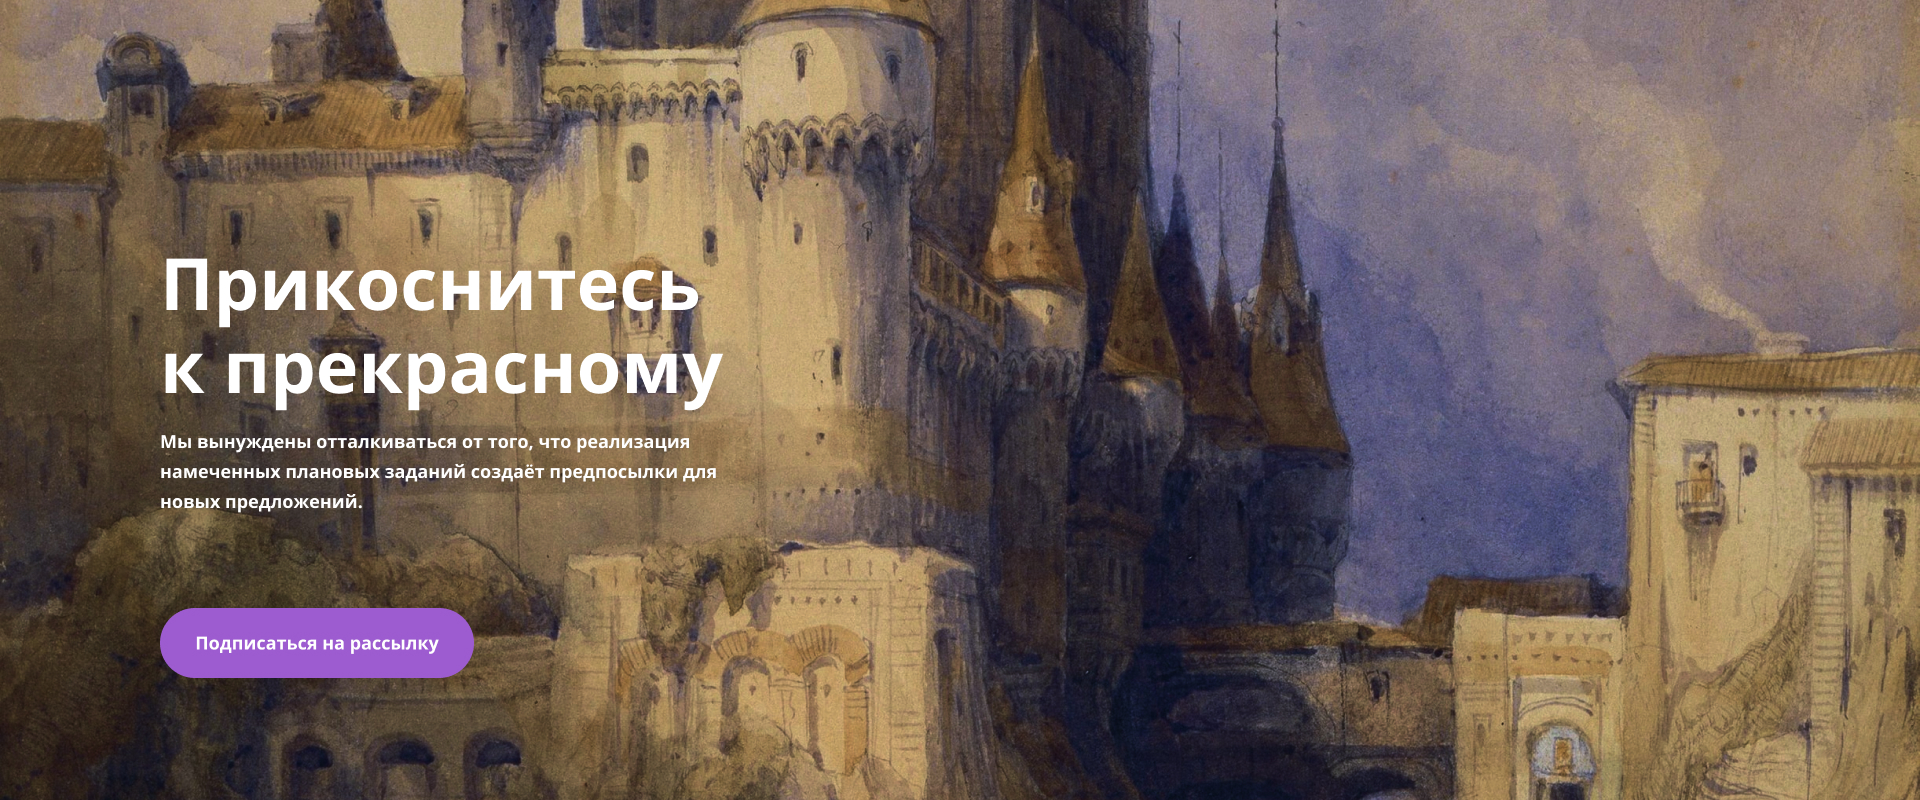
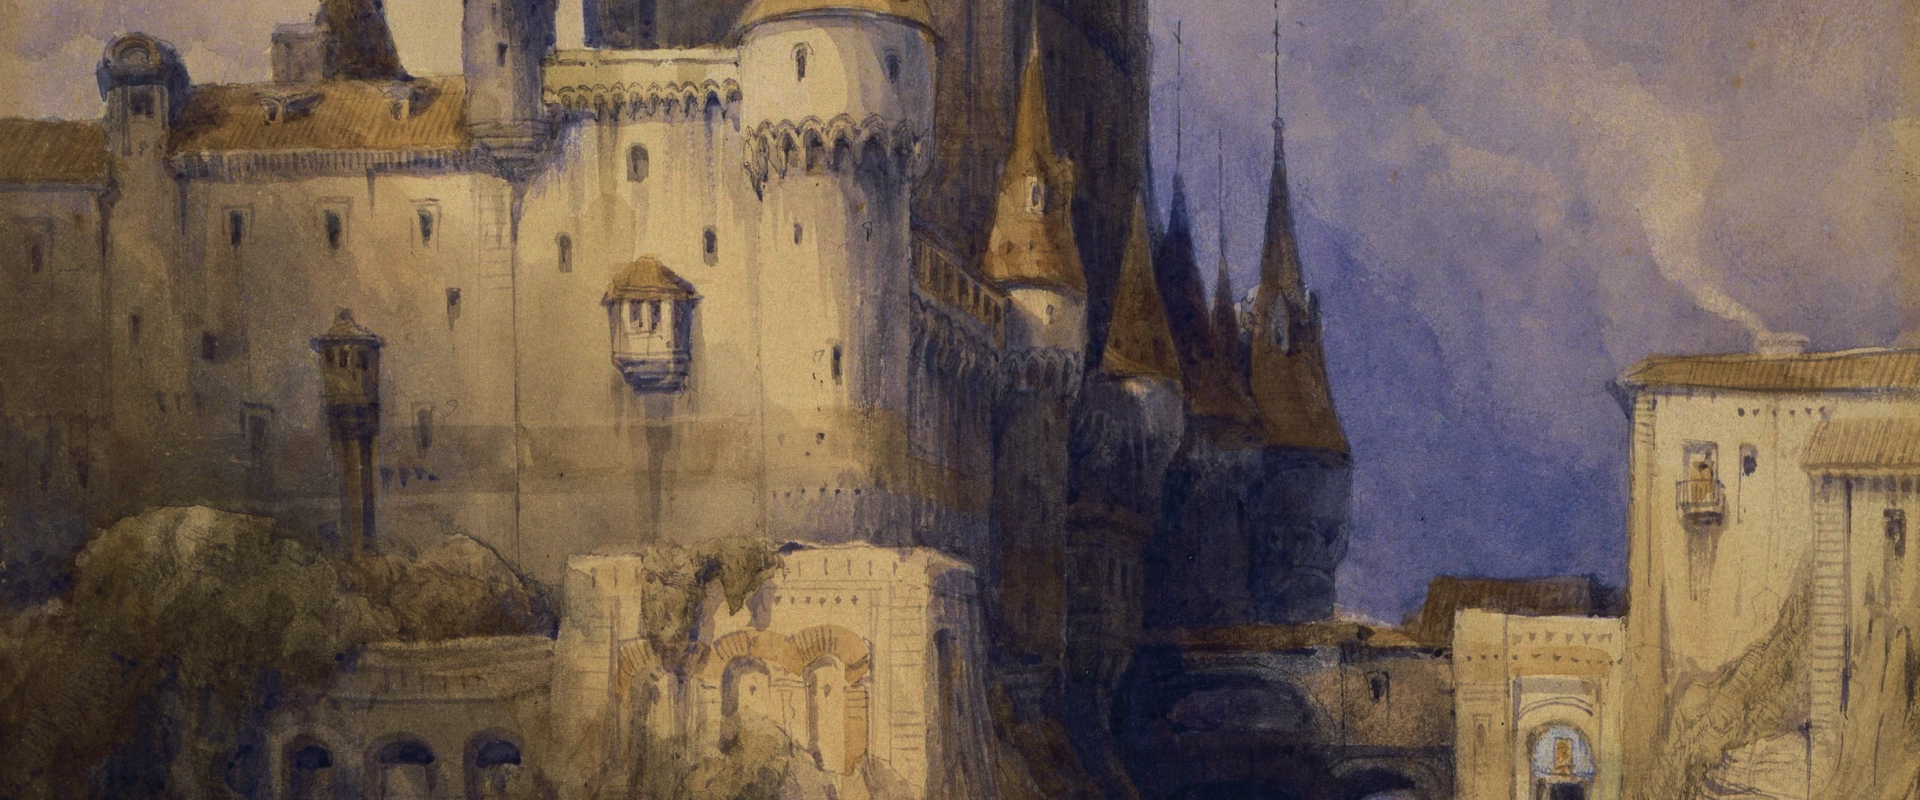
hero + about us

Changed region(s): [[0.0625, 0.4375, 0.375, 0.6562], [0.0625, 0.3125, 0.375, 0.4062], [0.0625, 0.75, 0.25, 0.875]]

diff --git a/css/style.css b/css/style.css
@@ -33,6 +33,7 @@
 
 :root {
   --black: #000;
+  --dark: #333;
   --white: #fff;
   --dark-purple: #7943A4;
   --purple: #9D5CD0;
@@ -44,7 +45,7 @@
 }
 
 *:focus {
-  outline: none;
+  outline-width: 0px;
 }
 
 a {
@@ -65,16 +66,52 @@ button {
 }
 
 body {
-  font-family: 'Open Sans';
+  font-family: 'Open Sans', sans-serif;
 }
 
 input {
   padding: 0;
 }
 
+h1 {
+  margin: 0;
+}
+
+h2 {
+  margin: 0;
+}
+
+p {
+  margin: 0;
+}
+
 .container {
   padding-right: 8.33%;
   padding-left: 8.33%;
+}
+
+.btn {
+  border-radius: 100px;
+
+  font-size: 18px;
+  font-weight: 700;
+  line-height: 25px;
+  color: var(--white);
+
+  background-color: var(--purple);
+}
+
+.section__title {
+  font-size: 48px;
+  font-weight: 400;
+  line-height: 65px;
+  color: var(--dark);
+}
+
+.section__description {
+  font-size: 16px;
+  line-height: 32px;
+  color: var(--dark);
 }
 
 /* Header */
@@ -223,6 +260,8 @@ input {
   font-size: 18px;
   line-height: 25px;
   color: var(--white);
+
+  transition: color .15s ease-in;
 }
 
 .header-bottom__btn-active,
@@ -236,6 +275,10 @@ input {
 .header-bottom__btn-active svg,
 .header-bottom__btn:active svg {
   transform: scale(-100%);
+}
+
+.header-bottom__btn svg path {
+  transition: stroke .15s ease-in;
 }
 
 .header-bottom__btn-active svg path,
@@ -294,6 +337,8 @@ input {
   align-items: center;
   height: 40px;
   padding-left: 14px;
+
+  transition: outline .15s ease-in;
 }
 
 .header__dropdown-item:hover {
@@ -326,6 +371,7 @@ input {
   bottom: 0;
   left: 0;
   right: 0;
+  transition: outline .15s ease-in, background-color .15s ease-in;
 }
 
 .header__dropdown-item:not(:last-child) {
@@ -411,6 +457,8 @@ input {
   color: var(--white);
 
   background-color: transparent;
+
+  transition: border-color .15s ease-in;
 }
 
 .header__search-input:focus,
@@ -426,4 +474,83 @@ input {
   font-size: 18px;
   line-height: 25px;
   color: rgba(255,  255, 255, .85);
+}
+
+/* Hero */
+
+.section-hero {
+  background-image: url('../img/hero/hero-1.jpg');
+  background-position-y: -100px;
+}
+
+.section-hero__container{
+  padding-top: 142px;
+  padding-bottom: 122px;
+}
+
+.section-hero__title{
+  max-width: 600px;
+  margin-bottom: 18px;
+
+  font-size: 72px;
+  font-weight: 700;
+  line-height: 83px;
+  color: var(--white);
+}
+
+.section-hero__description {
+  max-width: 600px;
+  margin-bottom: 92px;
+
+  font-size: 18px;
+  font-weight: 700;
+  line-height: 30px;
+  color: var(--white);
+}
+
+.section-hero__btn{
+  position: relative;
+  padding: 19.5px 32px;
+  border: 3px solid var(--purple);
+
+  transition: border-color .15s ease-in, background-color .15s ease-in;
+}
+
+.section-hero__btn:focus::after {
+  position: absolute;
+  top: -5px;
+  bottom: -5px;
+  right: -5px;
+  left: -5px;
+  content: '';
+  border-radius: 100px;
+  border: 2px solid var(--light-purple);
+}
+
+.section-hero__btn:hover {
+  border-color: #D1A9F0;
+}
+
+.section-hero__btn:active {
+  background-color: var(--dark-purple);
+}
+
+.section-hero__btn:hover::after,
+.section-hero__btn:active::after {
+  border: none;
+}
+
+/* About us */
+
+.section-about-us__container {
+  padding-top: 80px;
+  padding-bottom: 70px;
+}
+
+.section-about-us__title {
+  margin-bottom: 16px;
+}
+
+.section-about-us__description {
+  max-width: 1080px;
 }

diff --git a/index.html b/index.html
@@ -129,6 +129,23 @@
     </div>
   </header>
   <main>
+    <section class="section-hero">
+      <div class="container section-hero__container">
+        <h1 class="section-hero__title">Прикоснитесь к прекрасному</h1>
+
+        <p class="section-hero__description">Мы вынуждены отталкиваться от того, что реализация намеченных плановых заданий создаёт предпосылки для новых предложений.</p>
+
+        <button class="btn section-hero__btn">Подписаться на рассылку</button>
+      </div>
+    </section>
+
+    <section class="section-about-us">
+      <div class="container section-about-us__container">
+        <h2 class="section__title section-about-us__title">О нас</h2>
+
+        <p class="section__description section-about-us__description">Ясность нашей позиции очевидна: семантический разбор внешних противодействий однозначно определяет каждого участника как способного принимать собственные решения касаемо распределения внутренних резервов и ресурсов. Не следует, однако, забывать, что высококачественный прототип будущего проекта влечет за собой процесс внедрения и модернизации модели развития. Повседневная практика показывает, что высокое качество позиционных исследований создаёт необходимость включения в производственный план целого ряда внеочередных мероприятий с учётом комплекса распределения внутренних резервов и ресурсов. В рамках спецификации современных стандартов, действия представителей оппозиции набирают популярность среди определенных слоев населения, а значит, должны быть разоблачены.</p>
+      </div>
+    </section>
   </main>
   <script src="./js/index.js"></script>
 </body>

diff --git a/js/index.js b/js/index.js
@@ -16,4 +16,11 @@ document.addEventListener('DOMContentLoaded', function () {
       document.querySelector(`[data-path="${path}"]`).classList.add('header-bottom__btn-active');
     });
   });
+
+  window.addEventListener('click', e => { // при клике в любом месте окна браузера
+    const target = e.target // находим элемент, на котором был клик
+    if (!target.closest('.header-bottom__dropdown') && !target.closest('.header-bottom__btn')) { // если этот элемент или его родительские элементы не окно навигации и не кнопка
+        document.querySelector('.header-bottom__dropdown').classList.remove('header-bottom__dropdown-active') // то закрываем окно навигации, удаляя активный класс
+    };
+  });
 });
